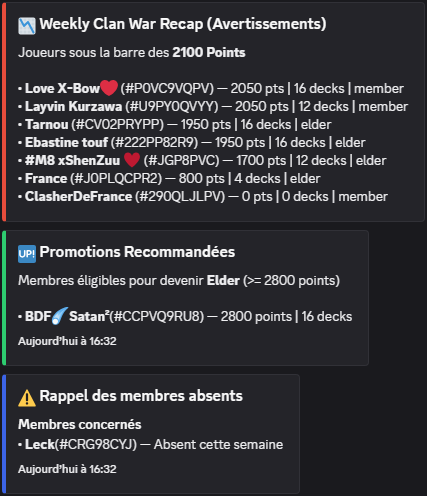
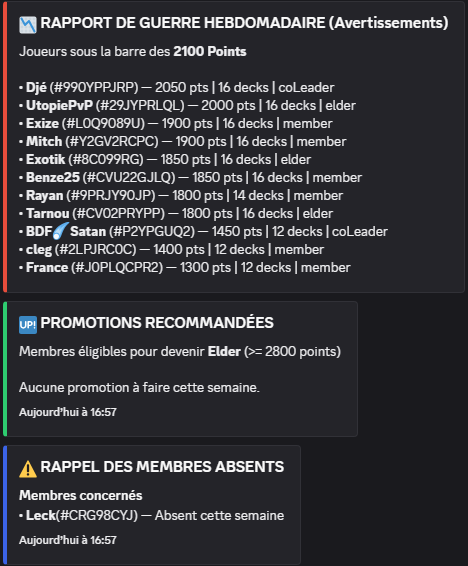
fix: change discord messages titles

Changed region(s): [[0.0, 0.0, 0.9742, 0.998]]

diff --git a/discord/DiscordMessage.js b/discord/DiscordMessage.js
@@ -145,7 +145,7 @@ class DiscordMessage {
         .sort((a, b) => b.fame - a.fame); // Tri décroissant
 
       const embedLow = new EmbedBuilder()
-        .setTitle("📉 Weekly Clan War Recap (Avertissements)")
+        .setTitle("📉 RAPPORT DE GUERRE HEBDOMADAIRE (Avertissements)")
         .setColor("#e74c3c")
         // On met toute la logique directement dans la description
         .setDescription(
@@ -166,7 +166,7 @@ class DiscordMessage {
         .sort((a, b) => b.fame - a.fame); // Tri décroissant (les plus gros scores en haut)
 
       const embedHigh = new EmbedBuilder()
-        .setTitle("🆙 Promotions Recommandées")
+        .setTitle("🆙 PROMOTIONS RECOMMANDÉES ")
         .setColor("#2ecc71") // Vert
         // On fusionne le texte d'intro et la liste dynamique dans la description
         .setDescription(
@@ -200,7 +200,7 @@ class DiscordMessage {
   async recapAbsents(messages, discordChannelId) {
     try {
       const embedAbsents = new EmbedBuilder()
-        .setTitle("⚠ Rappel des membres absents")
+        .setTitle("⚠ RAPPEL DES MEMBRES ABSENTS")
         .setColor("#3c64e7")
         // .setDescription("Joueurs")
         .addFields({
